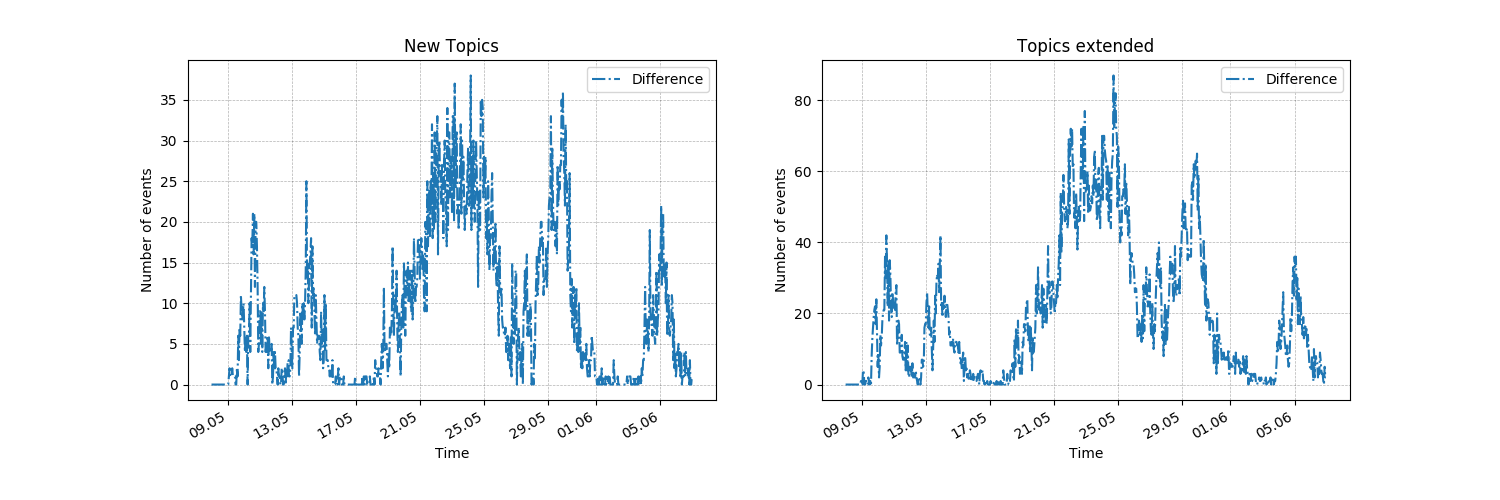
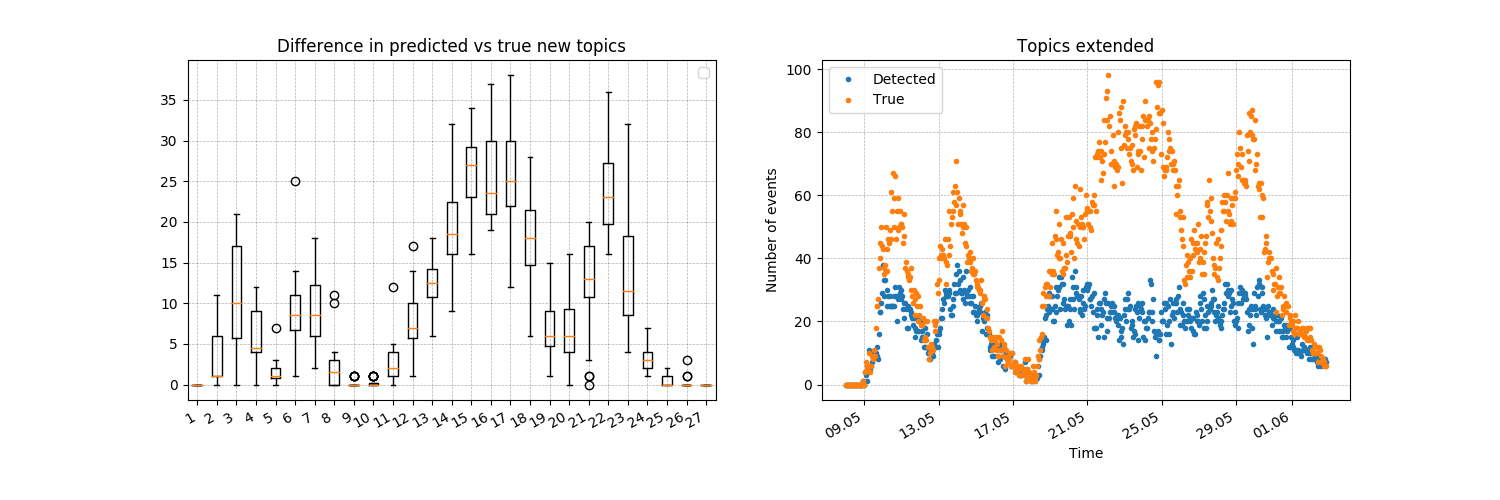
Having fun with plots

diff --git a/app/data_processing/plots.py b/app/data_processing/plots.py
@@ -5,6 +5,7 @@ import pandas
 import json
 import db
 import collections
+from datetime import datetime
 
 from tabulate import tabulate
 from dotenv import load_dotenv
@@ -303,8 +304,10 @@ def plot_event_detection_by_date():
         Y_true_add_events = []
         Y_true_change_events = []
         Y_mp_score = []
-        Y_add = []
+        Y_add = collections.defaultdict(list)
         Y_change = []
+        Y_change_mp_score = []
+        Y_add_mp_score = []
 
         for index, row in data.iterrows():
             result = json.loads(row["result"].replace("'", '"'))
@@ -317,7 +320,11 @@ def plot_event_detection_by_date():
                 Y_true_change_events.append(result["topic_changed"]["true"])
                 Y_mp_score.append(row["mp_score"])
 
-                Y_add.append(abs(result["topic_added"]["detected"] - result["topic_added"]["true"]))
+                Y_change_mp_score.append(result["topic_changed"]["mp_score"])
+                Y_add_mp_score.append(result["topic_added"]["mp_score"])
+
+                day = row["last_processed_date"].strftime("%Y-%m-%d") 
+                Y_add[day].append(abs(result["topic_added"]["detected"] - result["topic_added"]["true"]))
                 Y_change.append(abs(result["topic_changed"]["detected"] - result["topic_changed"]["true"]))
 
         # Remove first entry, because the inital batch skews the scale for new topics.
@@ -327,40 +334,38 @@ def plot_event_detection_by_date():
 
         fig = plt.figure(figsize=(15, 5))
 
-        plt.subplot(1, 2, 1)
+        plt.subplot( 1, 2, 1)
 
         # plt.yticks(np.arange(0, max(max(Y_true_add_events), max(Y_pred_add_events)) + 1, step=1))
-
-        plt.plot(X, Y_add,  '-.', label="Difference")
+        plt.boxplot(Y_add.values())
        
         # plt.plot(X, Y_pred_add_events,  '-o', label="Detected")
         # plt.plot(X, Y_true_add_events,  '-^', label="True")
 
-        plt.gca().xaxis.set_major_formatter(mdates.DateFormatter("%d.%m"))
-        plt.gca().xaxis.set_major_locator(mdates.AutoDateLocator())
-        plt.gcf().autofmt_xdate()
+        #plt.gca().xaxis.set_major_formatter(mdates.DateFormatter("%d.%m"))
+        #plt.gca().xaxis.set_major_locator(mdates.AutoDateLocator())
+        #plt.gcf().autofmt_xdate()
 
-        plt.xlabel("Time")
-        plt.ylabel("Number of events")
-        plt.title("New Topics")
+        #plt.xlabel("Time")
+        #plt.ylabel("Number of events")
+        plt.title("Difference in predicted vs true new topics")
         plt.legend()
         plt.grid(True, "major", ls="--", lw=0.5, c="k", alpha=0.3)
 
         plt.subplot(1, 2, 2)
 
-        plt.plot(X, Y_change,  '-o', label="Difference")
+        # plt.plot(X, Y_change,  '-')
+        plt.plot(X, Y_pred_change_events,  '.', label="Detected")
+        plt.plot(X, Y_true_change_events,  '.', label="True")
+
         plt.ylabel("Number of events")
-        plt.legend()
 
-        plt.twinx()
+        # plt.twinx()
+        # plt.plot(X, Y_mp_score,  '-', color='red')
+        # plt.plot(X, Y_change_mp_score,  '-', color='red', alpha=0.3)
+        # plt.ylabel("MP-Score")
 
-        plt.plot(X, Y_mp_score,  '-', label="MP-Score", color='red')
-        plt.ylabel("MP-Score")
-
-        plt.ylim(0,1)
-
-        # plt.plot(X, Y_pred_change_events,  '-o', label="Detected")
-        # plt.plot(X, Y_true_change_events,  '-^', label="True")
+        # plt.ylim(0,1)
 
         plt.gca().xaxis.set_major_formatter(mdates.DateFormatter("%d.%m"))
         plt.gca().xaxis.set_major_locator(mdates.AutoDateLocator())
@@ -369,9 +374,35 @@ def plot_event_detection_by_date():
         plt.xlabel("Time")
         plt.title("Topics extended")
         plt.legend()
+
+
         plt.grid(True, "major", ls="--", lw=0.5, c="k", alpha=0.3)
+        plt.legend()
 
         plt.savefig("../../doc/images/event_detection_by_date_{}.png".format(nrow))
+        plt.close(fig)
+
+        ##################
+
+        fig = plt.figure()
+
+        plt.plot(X, Y_mp_score,  '.', alpha=0.8, label="Overall")
+        plt.plot(X, Y_add_mp_score,  '.', alpha=0.8, label="New Topics")
+        plt.plot(X, Y_change_mp_score,  '.', alpha=0.8, label="Topic Extended")
+
+        plt.ylim(0,1)
+
+        plt.gca().xaxis.set_major_formatter(mdates.DateFormatter("%d.%m"))
+        plt.gca().xaxis.set_major_locator(mdates.AutoDateLocator())
+        plt.gcf().autofmt_xdate()
+
+        plt.xlabel("Time")
+        plt.title("MP-Score")
+
+        plt.grid(True, "major", ls="--", lw=0.5, c="k", alpha=0.3)
+        plt.legend()
+
+        plt.savefig("../../doc/images/online_mp_score_{}.png".format(nrow))
         plt.close(fig)
 
 
